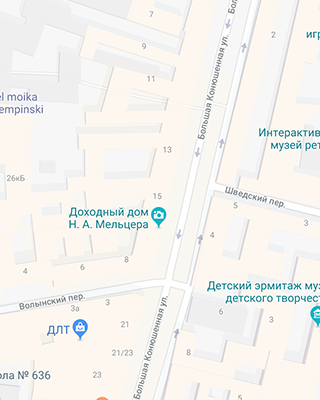
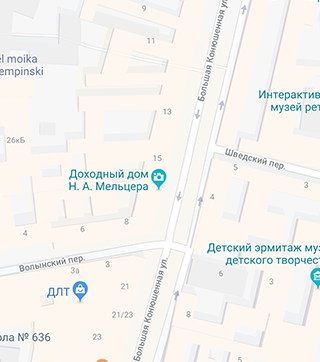
Сделал вёрстку footer

diff --git a/source/index.html b/source/index.html
@@ -128,7 +128,7 @@
         <iframe class="map__google"
           src="https://www.google.com/maps/embed?pb=!1m18!1m12!1m3!1d1998.6036253056745!2d30.32085335164214!3d59.93871916896525!2m3!1f0!2f0!3f0!3m2!1i1024!2i768!4f13.1!3m3!1m2!1s0x4696310fca145cc1%3A0x42b32648d8238007!2z0JHQvtC70YzRiNCw0Y8g0JrQvtC90Y7RiNC10L3QvdCw0Y8g0YPQuy4sIDE5LzgsINCh0LDQvdC60YIt0J_QtdGC0LXRgNCx0YPRgNCzLCAxOTExODY!5e0!3m2!1sru!2sru!4v1573659100737!5m2!1sru!2sru"
           width="320" height="362" style="border:0;" allowfullscreen=""></iframe>
-        <img class="map__img" src="img/bg-map-mobile@1x.png" width="320" height="400"
+        <img class="map__img" src="img/bg-map-mobile@1x.png" width="320" height="362"
           alt="Карта, адрес магазина: ул.Большая Конюшенная, д.19/8, Санкт-Петербург">
       </div>
     </section>
@@ -140,24 +140,50 @@
       <div class="page-footer__social social">
         <ul class="social__list">
           <li class="social__item">
-            <a class="social__link social__link--vk" href="#">Мы в Вконтакте</a>
+            <a class="social__link" href="#">
+              <span class="visually-hidden">Мы в Вконтакте</span>
+              <svg class="social__item-icon social__item-icon--vk" width="22" height="12"
+                enable-background="new 0 0 22 12" viewBox="0 0 22 12" xmlns="http://www.w3.org/2000/svg">
+                <path
+                  d="m17.6 12c-.3 0-.9-.1-1.5-.5-.5-.3-.9-.7-1.3-1.2-.3-.3-.9-.9-1.1-.9-.2.1-.4.7-.3 1.2 0 .1 0 .6-.3.9s-.8.4-.9.4h-1.4c-.7 0-3.2-.2-5.4-2.3-2.9-2.5-5.2-7.4-5.3-7.6-.1-.4-.2-.8.1-1.1s.8-.4 1-.4h3.1c.1 0 .4.1.7.3s.4.5.5.6c.7 1.5 1.5 2.8 2.6 4 .1-.4.2-1.4.1-2.3 0-.4-.1-.8-.2-1-.1-.1-.3-.2-.5-.2l-.6-.5c0-.5.5-.9.9-1.1.5-.2 1.3-.3 2.3-.3h.5c.9 0 1.2.1 1.6.1 1.2.3 1.2 1.3 1.1 2.5v1.6c0 .3 0 .8.1 1 .2-.1.6-.5 1.5-1.9.6-.9 1-1.9 1.1-2.1.1-.3.4-.7 1.2-.7h3.4c.7 0 1.2.2 1.3.7.2.5.1 1.3-1.7 3.5-.3.3-.5.6-.7.9-.5.4-.9 1-.9 1.1s.5.5.9.9c1.1.9 1.9 1.7 2.2 2.3.4.6.3 1 .2 1.3-.3.7-1.2.7-1.4.8h-2.8zm-3.9-3.7c.7 0 1.2.6 1.8 1.2.4.4.7.8 1.1 1 .5.3 1 .3 1 .3h2.9c.1 0 .3-.1.4-.1 0 0 0-.1-.1-.1-.3-.5-1-1.3-2-2.1-.9-.7-1.3-1.1-1.4-1.7 0-.6.4-1.1 1.2-2.1.2-.2.4-.5.7-.8 1.1-1.4 1.4-2 1.5-2.3h-3.9c0 .4-.5 1.5-1.1 2.4-1.4 2.1-2 2.4-2.5 2.4-.1 0-.3 0-.4-.1-.7-.4-.7-1.4-.7-2.1v-.3-1.3c.1-1.3 0-1.3-.3-1.4s-.5-.1-1.4-.1h-.5c-.5 0-1 0-1.4.1l.2.2c.4.5.4 1.5.4 1.7.1 1.3 0 2.9-.7 3.3-.1 0-.2.1-.4.1-.6 0-1.3-.7-2.5-2.5-.6-1.1-1.1-2.2-1.1-2.2s0-.1-.1-.1-.2-.1-.2-.1h-2.9-.1c.4.9 2.5 5 4.8 7.2 2 1.9 4.3 2 4.7 2h1.4s.2 0 .2-.1v-.1c0-.2 0-2 1.2-2.3z" />
+              </svg>
+            </a>
           </li>
           <li class="social__item">
-            <a class="social__link social__link--insta" href="#">Мы в Инстагараме</a>
+            <a class="social__link" href="#">
+              <span class="visually-hidden">Мы в Инстагараме</span>
+              <svg class="social__item-icon social__item-icon--insta" width="17" height="17"
+                enable-background="new 0 0 16.1 16" viewBox="0 0 16.1 16" xmlns="http://www.w3.org/2000/svg">
+                <path
+                  d="m11.8 1c1.8 0 3.2 1.4 3.2 3.2v7.7c0 1.7-1.4 3.1-3.1 3.1h-7.7c-1.8 0-3.2-1.4-3.2-3.2v-7.6c0-1.8 1.4-3.2 3.2-3.2zm0-1h-7.6c-2.3 0-4.2 1.9-4.2 4.2v7.7c0 2.2 1.9 4.1 4.2 4.1h7.7c2.3 0 4.2-1.9 4.2-4.2v-7.6c-.1-2.3-2-4.2-4.3-4.2z" />
+                <path
+                  d="m8 4.9c1.7 0 3.1 1.4 3.1 3.1s-1.4 3.1-3.1 3.1-3.1-1.4-3.1-3.1 1.4-3.1 3.1-3.1m0-1c-2.3 0-4.1 1.8-4.1 4.1s1.8 4.1 4.1 4.1 4.1-1.8 4.1-4.1-1.8-4.1-4.1-4.1z" />
+                <circle cx="12.3" cy="3.7" r=".9" />
+              </svg>
+            </a>
           </li>
           <li class="social__item">
-            <a class="social__link social__link--fb" href="#">Мы в Фейсбуке</a>
+            <a class="social__link" href="#">
+              <span class="visually-hidden">Мы в Фейсбуке</span>
+              <svg class="social__item-icon social__item-icon--fb" width="10" height="19"
+                enable-background="new 0 0 10 19" viewBox="0 0 10 19" xmlns="http://www.w3.org/2000/svg">
+                <path
+                  d="m7.1 19h-5.1v-8.8h-2v-4.4h1.9c-.1-2 .2-3.4 1.1-4.4.8-.9 2-1.3 3.5-1.4h3.5v4.2h-2.8c-.1.2-.2.8-.2 1.6h3v4.4h-2.9zm-4-1h2.8v-8.9h2.9v-2.3h-2.9v-.5c0-1.4 0-2.6.7-3.1l.1-.1h2.1v-2.1h-2.3c-1.2.1-2 .4-2.6 1-.8.8-1 2.3-.8 4.2l.1.6h-2.1v2.3h2z" />
+              </svg>
+            </a>
           </li>
         </ul>
       </div>
-      <div class="page-footer__copyright copyright">
+      <a class="page-footer__copyright copyright" href="https://htmlacademy.ru/intensive/adaptive">
         <p class="copyright__text">HTML Academy</p>
-        <a class="copyright__link" href="https://htmlacademy.ru/intensive/adaptive">
-          <img class="copyright__img" src="img/htmlacademy.svg" width="27" height="34" alt="Логотип HTML Academy">
-        </a>
-      </div>
+        <svg class="copyright__icon" width="27" height="34" xmlns="http://www.w3.org/2000/svg" viewBox="0 0 27 34">
+          <path
+            d="m13.62.017-.148-.017-13.472 1.412v24.661l13.473 8.017 13.43-7.99.042-.025v-24.663zm11.399 12.11-11.524-6.793-.001-.104-.087.05-.088-.056v.109l-11.394 6.785v-8.971l11.548-1.212 11.547 1.212v8.98zm-11.614-5.34 11.518 6.713-4.479 2.64-7.093-4.221-.014 1.415 5.904 3.513-.86.507-5.03-2.992-.014 1.415 3.827 2.275-.782.523-3.031-1.787-.014 1.413 1.853 1.091-1.8 1.081-11.356-6.751zm-11.48 8.34 11.411 6.791.016 1.044-7.942-4.728-.015 1.416 7.979 4.795.018 1.076-7.973-4.74-.013 1.414 8.021 4.822.046.025 8.143-4.872-.011-5.177 3.415-2.036v10.021l-11.548 6.872-11.547-6.871v-9.852z"/>
+        </svg>
+      </a>
     </div>
   </footer>
+
   <script src="js/main-nav-toggle.js"></script>
 </body>
 

diff --git a/source/less/blocks/map.less b/source/less/blocks/map.less
@@ -1,3 +1,61 @@
 .map {
   position: relative;
+
+  &::before {
+    content: "";
+
+    position: absolute;
+    top: 138px;
+    left: 129px;
+    z-index: 2;
+
+    width: 55px;
+    height: 53px;
+
+    background-image: url("../../img/map-pin.png");
+    background-repeat: no-repeat;
+    background-size: auto 100%;
+  }
 }
+
+.map__google {
+  position: absolute;
+  top: 0;
+  left: 0;
+  z-index: 1;
+}
+
+@media (min-width: @tablet-width) {
+  .map::before {
+    top: 150px;
+    left: 333px;
+
+    width: 113px;
+    height: 106px;
+  }
+
+  .map__google {
+    width: 100%;
+    height: 396px;
+  }
+
+  .map__img {
+    width: 100%;
+    height: 396px;
+  }
+}
+
+@media (min-width: @desktop-width) {
+  .map::before {
+    left: 939px;
+  }
+
+  .map__google {
+    height: 400px;
+  }
+
+  .map__img {
+    height: 400px;
+  }
+}
+

diff --git a/source/less/blocks/social.less b/source/less/blocks/social.less
@@ -1,3 +1,55 @@
+.social {
+  padding: 22px 10px 15px 10px;
+
+  border-top: 1px solid @grey;
+  border-bottom: 1px solid @grey;
+}
+
 .social__list {
   .reset-list();
+
+  display: flex;
+  justify-content: space-between;
+  width: 126px;
+  margin: 0 auto;
+}
+.social__item {
+  display: flex;
+  align-items: center;
+}
+
+.social__item-icon {
+  fill: @grey--darken;
+
+  &:hover,
+  &:focus {
+    fill: @green;
+  }
+
+  &:active {
+    opacity: 0.3;
+  }
+}
+
+@media (min-width: @tablet-width) {
+  .social {
+    padding: 0;
+
+    border: none;
+  }
+
+  .social__item-icon--vk {
+    width: 30px;
+    height: 16px;
+  }
+
+  .social__item-icon--insta {
+    width: 23px;
+    height: 23px;
+  }
+
+  .social__item-icon--fb {
+    width: 14px;
+    height: 28px;
+  }
 }

diff --git a/source/less/blocks/page-footer.less b/source/less/blocks/page-footer.less
@@ -12,9 +12,18 @@
 .page-footer__logo {
   display: inline-block;
   margin: 0 auto;
-  margin-bottom: 31px;
+  margin-bottom: 27px;
 
   vertical-align: middle;
+
+  &:hover,
+  &:focus {
+    opacity: 0.8;
+  }
+
+  &:active {
+    opacity: 0.6;
+  }
 }
 
 .page-footer__social {
@@ -26,6 +35,7 @@
     padding: 58px 0;
     display: flex;
     justify-content: space-between;
+    align-items: center;
   }
 
   .page-footer__logo {
@@ -34,6 +44,10 @@
 
   .page-footer__social {
     margin: 0;
+  }
+
+  .page-footer__copyright {
+    width: 162px;
   }
 }
 

diff --git a/source/less/blocks/about-company.less b/source/less/blocks/about-company.less
@@ -6,6 +6,17 @@
   background-color: @white;
 }
 
+.about-company__map {
+  width: @mobile-width;
+  margin: 0 auto;
+}
+
+@media (min-width: @tablet-width) {
+  .about-company__map {
+    width: @tablet-width;
+  }
+}
+
 @media (min-width: @desktop-width) {
   .about-company__contact {
     .wrapper();
@@ -13,8 +24,12 @@
     top: 95px;
     right: 0;
     left: 0;
-    z-index: 1;
+    z-index: 3;
 
     background-color: transparent;
+  }
+
+  .about-company__map {
+    width: @desktop-width;
   }
 }

diff --git a/source/less/blocks/copyright.less b/source/less/blocks/copyright.less
@@ -9,15 +9,23 @@
   font-weight: 400;
   font-style: normal;
   text-align: left;
-  color: @text-color;
+  color: @black--lightest;
+
+  &:hover .copyright__icon,
+  &:focus .copyright__icon {
+    fill: @green;
+  }
+
+  &:active {
+    opacity: 0.3;
+  }
 }
 
 .copyright__text {
   margin: 0;
 }
 
-.copyright__link {
-  display: block;
-
-  text-align: right;
+.copyright__icon {
+  fill: @grey--darken;
 }
+
